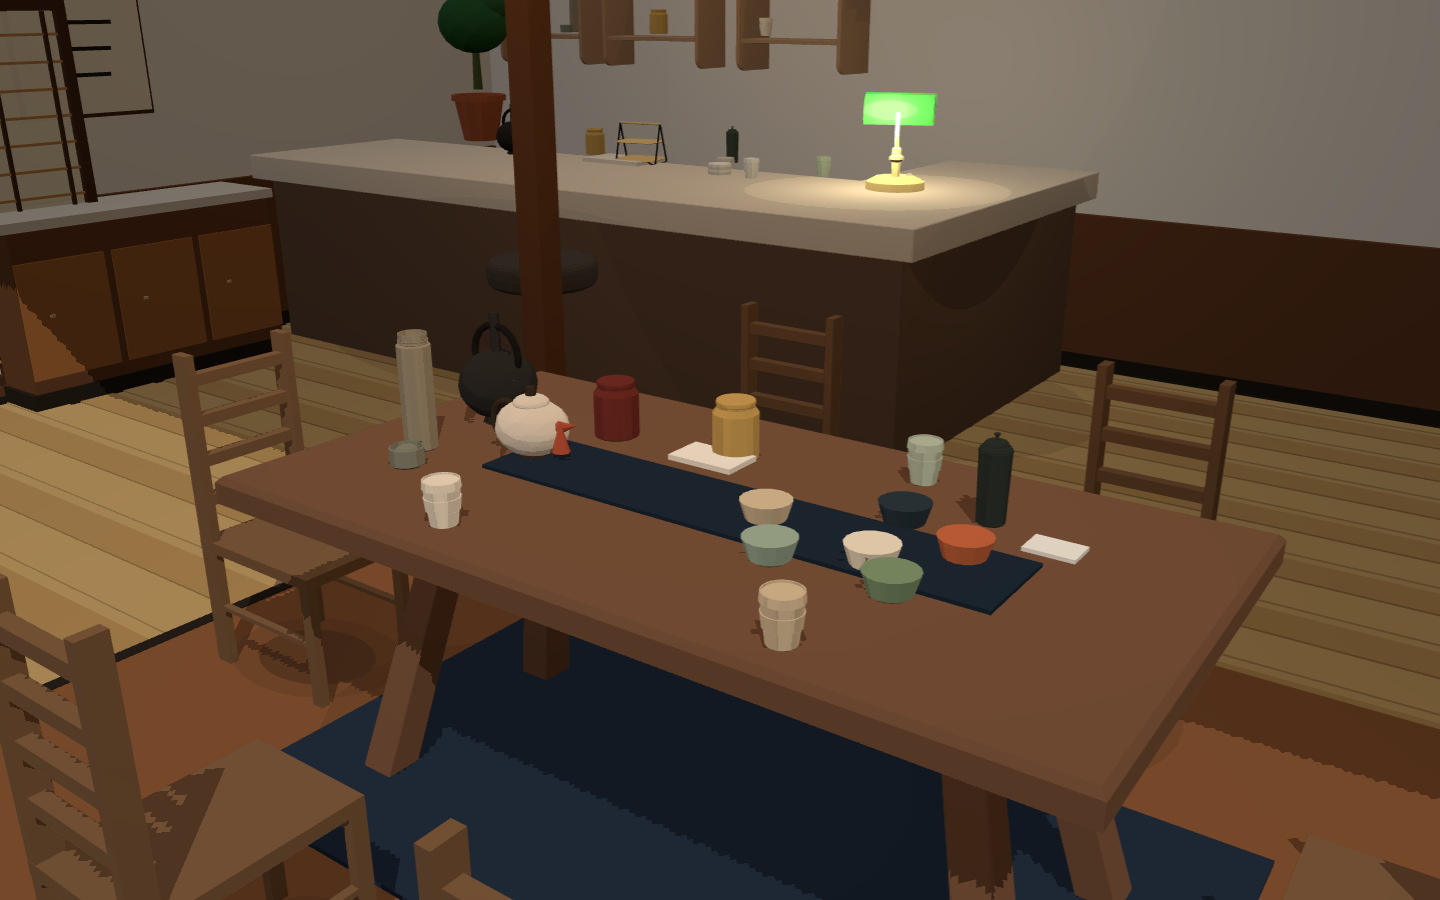
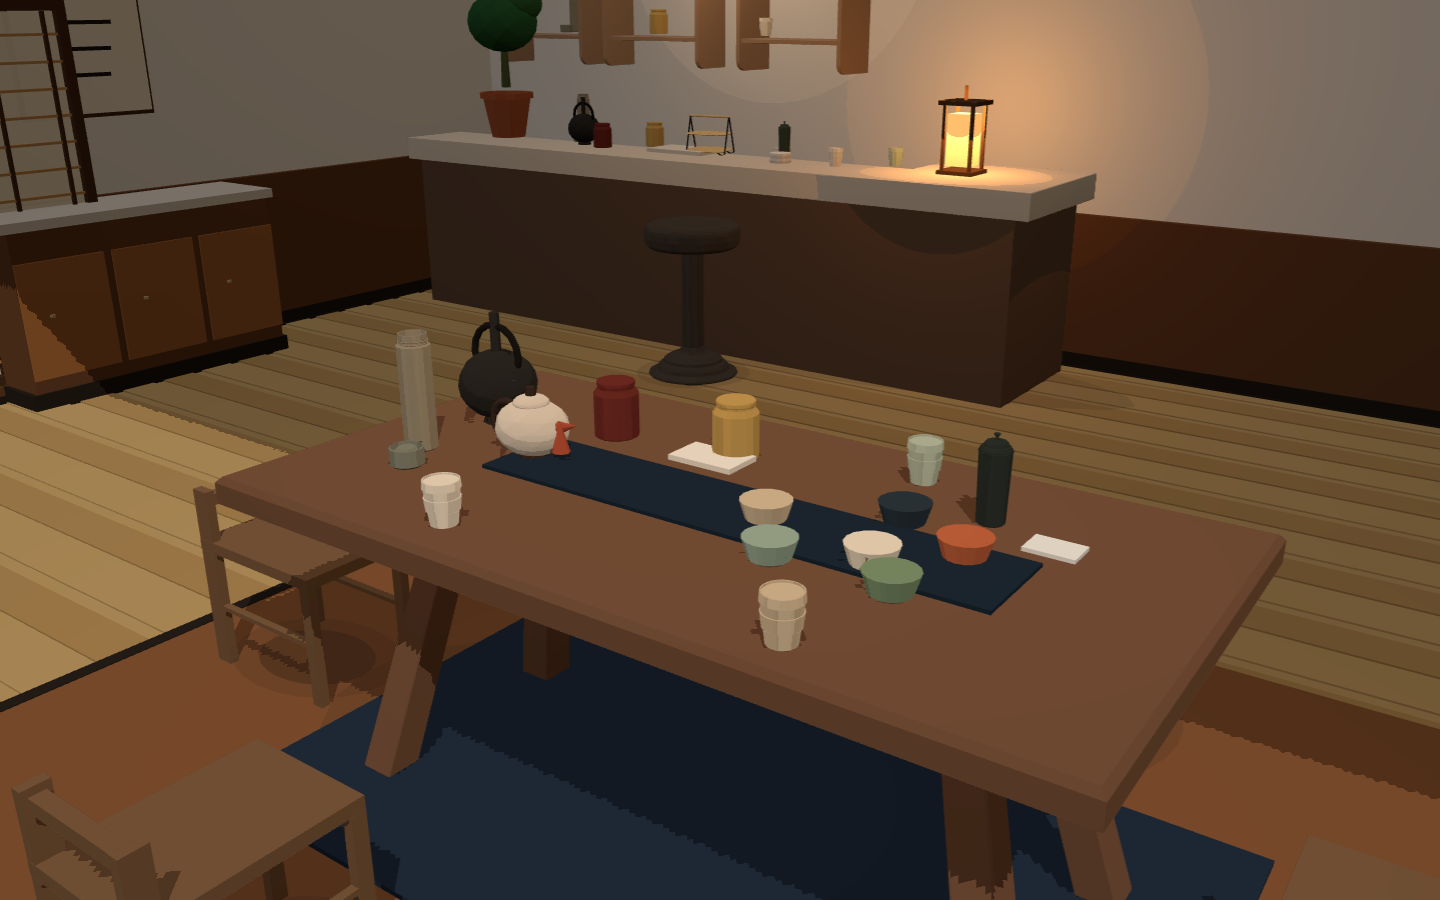
Replace the banker's lamp and tighten the tea house props.
A paper andon stands on a shallower prep bar, the dais posts are gone, the right screens sit on one line with a gap, and the dining chairs keep a single low rail.

diff --git a/experiments/sprint-20261110/tea-house/tea-house.js b/experiments/sprint-20261110/tea-house/tea-house.js
@@ -42,7 +42,42 @@ function tintNeutrals(root, darkHex, lightHex) {
   });
 }
 
+function shortenWorldUp(mesh, factor) {
+  const geo = mesh.geometry.clone();
+  const attr = geo.attributes.position;
+  mesh.updateWorldMatrix(true, false);
+  const world = mesh.matrixWorld;
+  const inv = world.clone().invert();
+  const v = new THREE.Vector3();
+  let minY = Infinity;
+  for (let i = 0; i < attr.count; i++) {
+    v.fromBufferAttribute(attr, i).applyMatrix4(world);
+    if (v.y < minY) minY = v.y;
+  }
+  for (let i = 0; i < attr.count; i++) {
+    v.fromBufferAttribute(attr, i).applyMatrix4(world);
+    v.y = minY + (v.y - minY) * factor;
+    v.applyMatrix4(inv);
+    attr.setXYZ(i, v.x, v.y, v.z);
+  }
+  attr.needsUpdate = true;
+  geo.computeBoundingBox();
+  geo.computeVertexNormals();
+  mesh.geometry = geo;
+}
+
+function simplifyChairBack(root) {
+  root.updateWorldMatrix(true, true);
+  root.traverse((obj) => {
+    if (!obj.isMesh) return;
+    const n = (obj.name || '').replaceAll('.', '');
+    if (n === 'back_bar001' || n === 'back_bar002' || n === 'back_bar003') obj.visible = false;
+    if (n === 'back_post' || n === 'back_post001') shortenWorldUp(obj, 0.58);
+  });
+}
+
 function onBeforeShade(kind, root) {
+  if (kind === 'dining_chair') simplifyChairBack(root);
   if (kind === 'bar_counter') {
     root.traverse((obj) => {
       if (!obj.isMesh || !obj.material) return;
@@ -57,10 +92,6 @@ function onBeforeShade(kind, root) {
   if (kind === 'pendant_lamp') {
     tagMaterials(root, (c) => near(c, '#ad6100', 0.18), '#ff9a3c', 0.72);
     tagMaterials(root, (c) => near(c, '#d9d9d9', 0.12), '#fff1d2', 1.05);
-  }
-  if (kind === 'library_lamp') {
-    tagMaterials(root, (c) => c.r > 0.9 && c.g > 0.9 && c.b > 0.9, '#fff6df', 1.15);
-    tagMaterials(root, (c) => near(c, '#399c3c', 0.16), '#7dce6a', 0.38);
   }
 }
 
@@ -195,10 +226,7 @@ function makeShell(layout) {
   addBox(g, cw, 0.08, cd, ceilMat, -0.15, H - 0.05, -D * 0.16);
   addBox(g, 3.6, 0.1, 0.08, wood, arch.table[0], H - 0.22, arch.table[2] - 0.42);
   addBox(g, 3.6, 0.1, 0.08, wood, arch.table[0], H - 0.22, arch.table[2] + 0.42);
-  addBox(g, 0.08, 0.1, 2.4, wood, arch.counter[0], H - 0.28, arch.counter[1]);
-  addBox(g, 0.1, H - 0.4, 0.1, wood, dais.x + 0.15, (H - 0.4) / 2, dais.z + 0.12);
-  addBox(g, 0.1, H - 0.4, 0.1, wood, dais.x + dais.w - 0.15, (H - 0.4) / 2, dais.z + 0.12);
-  addBox(g, dais.w - 0.2, 0.08, 0.08, wood, dx, H - 0.46, dais.z + 0.12);
+  addBox(g, 0.08, 0.1, 1.05, wood, arch.counter[0], H - 0.28, arch.counter[1]);
 
   return g;
 }
@@ -315,6 +343,20 @@ function menuBoard(g, x, y, z) {
   }
 }
 
+function andon(g, x, y, z) {
+  const wood = toon('#5a3d28');
+  const paper = toon('#f6d7a4', { emissive: '#ffb15c', emissiveIntensity: 0.95 });
+  addBox(g, 0.18, 0.018, 0.18, wood, x, y + 0.012, z);
+  addBox(g, 0.014, 0.32, 0.014, wood, x - 0.07, y + 0.17, z - 0.07);
+  addBox(g, 0.014, 0.32, 0.014, wood, x + 0.07, y + 0.17, z - 0.07);
+  addBox(g, 0.014, 0.32, 0.014, wood, x - 0.07, y + 0.17, z + 0.07);
+  addBox(g, 0.014, 0.32, 0.014, wood, x + 0.07, y + 0.17, z + 0.07);
+  addBox(g, 0.12, 0.24, 0.12, paper, x, y + 0.16, z);
+  addBox(g, 0.012, 0.2, 0.012, toon('#8a6238'), x, y + 0.16, z);
+  addBox(g, 0.19, 0.02, 0.19, wood, x, y + 0.33, z);
+  addCyl(g, 0.008, 0.008, 0.07, wood, x, y + 0.37, z, 6);
+}
+
 function lantern(g, x, y, z) {
   addCyl(g, 0.008, 0.008, 0.45, toon(INK), x, y + 0.28, z, 6);
   addCyl(g, 0.15, 0.16, 0.035, toon(FRAME), x, y, z, 12);
@@ -335,11 +377,10 @@ function makeProcedural(layout) {
   const { width: W } = layout.meta.room;
 
   screenPanel(g, {
-    x: 3.35, z: -2.05, w: 1.65, h: 1.55, kick: 0.16, paper: true, slatEvery: 0.11, postEvery: 0.28,
+    x: 2.4, z: -1.92, w: 1.4, h: 1.58, kick: 0.14, paper: true, slatEvery: 0.11, postEvery: 0.28,
   });
   screenPanel(g, {
-    x: 2.95, z: -1.22, w: 1.2, h: 1.35, rotY: 0.42, kick: 0.12, paper: false,
-    slatEvery: 0.09, postEvery: 0.24, frame: WOOD, slat: WOOD_LIT,
+    x: 4.15, z: -1.92, w: 1.0, h: 1.58, kick: 0.14, paper: true, slatEvery: 0.11, postEvery: 0.28,
   });
   screenPanel(g, {
     x: -W / 2 + 0.28, z: -0.15, w: 1.15, h: 1.7, rotY: Math.PI / 2, kick: 0.08,
@@ -389,7 +430,8 @@ function makeProcedural(layout) {
   addBox(g, 0.1, 0.008, 0.07, toon('#f3f6f4'), t[0] + 0.62, top + 0.008, t[2] - 0.16);
 
   const c = arch.counter;
-  kettle(g, c[0] - 0.85, arch.counterTop, c[1] + 0.12);
+  andon(g, -1.08, arch.counterTop, c[1] + 0.02);
+  kettle(g, c[0] - 0.85, arch.counterTop, c[1] + 0.08);
   addBox(g, 0.36, 0.02, 0.22, toon('#efe6d8'), c[0] - 0.15, arch.counterTop + 0.01, c[1] + 0.05);
   addCyl(g, 0.045, 0.05, 0.03, toon('#d8d2c8'), c[0] + 0.35, arch.counterTop + 0.02, c[1] - 0.15, 14);
   for (let i = 0; i < 4; i++) {

diff --git a/experiments/sprint-20261110/tea-house/tests/test_layout.py b/experiments/sprint-20261110/tea-house/tests/test_layout.py
@@ -37,7 +37,10 @@ def test_zones_and_focal_pieces():
     assert kinds.count("dining_table") == 1
     assert kinds.count("bar_counter") == 1
     assert kinds.count("dining_chair") >= 6
-    assert "screenPanel" in scene and "teapot" in scene and "teaBowl" in scene
+    assert "screenPanel" in scene and "teapot" in scene and "teaBowl" in scene and "andon" in scene
+    assert "library_lamp" not in layout["assets"]
+    scale = by_id["prep_counter"].get("scale")
+    assert scale and scale[2] <= 0.5
 
 
 def test_inside_room():

diff --git a/experiments/sprint-20261110/tea-house/refs/GAP.md b/experiments/sprint-20261110/tea-house/refs/GAP.md
@@ -3,8 +3,9 @@
 The catalog has no gaiwan, tetsubin, or shoji lattice. Those are procedural: clay pot, iron kettle, paper lanterns, and the two wood screens. They are details around real furniture, not a stand-in for the table and counter.
 
 - The only cup mesh is a lidded takeaway cup (`cup_mug`). Instances are recolored to glazes. The lid and sleeve silhouette still read as a coffee cup up close.
-- The preparation counter is the cafe L-bar, scaled to a 1.0 m working height, so it is almost 4 m wide. Neutrals are shifted to stone. It is still an L-bar, not a tea cabinet.
+- The preparation counter is the cafe bar mesh, scaled to a 1.0 m working height and about 0.82 m deep (local Z 0.42). Neutrals are shifted to stone. The original L fillet is still in the mesh, but the plan is a shallow bar rather than the cafe footprint.
 - The maker’s seat is the cafe pedestal stool, darkened. There is no wood tea stool in the bakes.
+- Dining chairs are the wooden dining chair. The upper three back rails are hidden and the posts are cut down to a single low rail. There is no separate low-back chair in the catalog.
 - `tray_napkin` bakes as a small wooden stand, not a flat tray.
 - Jars stand in for tea caddies. There is no tin or canister with a tea label.
 - Flowerpots are simple tapered pots. Leaves and bamboo are procedural.

diff --git a/experiments/sprint-20261110/tea-house/SPEC.md b/experiments/sprint-20261110/tea-house/SPEC.md
@@ -5,7 +5,7 @@ One room, two jobs: guests sit down to taste, and someone prepares tea behind th
 ## Zones
 
 - **Tasting.** One long oak table on a low walnut dais. Six matching chairs face the top (two along each long side, one at each end). The host end is the west chair, toward the counter. A cloth runner, iron kettle, clay pot, caddies, and a loose cluster of bowls sit on the top — a flight, not a place-setting grid.
-- **Preparation.** The cafe L-counter, retinted to warm stone, runs along the back-left. Shelves, jars, a thermos, and a banker’s lamp sit on and above it. One stool faces the counter. Millwork continues along the left wall toward a backless waiting bench.
+- **Preparation.** The cafe counter mesh is scaled shallow (about 0.82 m deep) and retinted to a stone top over a dark base. Shelves, jars, a thermos, and a paper andon sit on and above it. One stool faces the counter. Millwork continues along the left wall toward a backless waiting bench.
 
 ## Architecture
 

diff --git a/experiments/sprint-20261110/tea-house/ATTRIBUTIONS.md b/experiments/sprint-20261110/tea-house/ATTRIBUTIONS.md
@@ -24,7 +24,6 @@ See `cafe/ATTRIBUTIONS.md` for Sketchfab links. Reused here:
 
 ## Other existing bakes
 
-- **Library / banker’s lamp** `library_lamp__06accd4e0351.glb` — objaverse `06accd4e0351480e8c4eb2f28fadaa35`, "Library Desk Lamp" by oriolescolarcano, CC-BY-4.0.
 - **Book stand** `book_stand__fb784262748d.glb` — objaverse `fb784262748d414fa1ff882a871a5af8`, by jba41662, CC-BY-4.0. Used as the entry lectern.
 - **Bench** `museum_bench__0025f9484fc6.glb` — objaverse `0025f9484fc64af29f59cf11a8beced7`, "Bench" by RookeyJerry, CC-BY-4.0.
 
